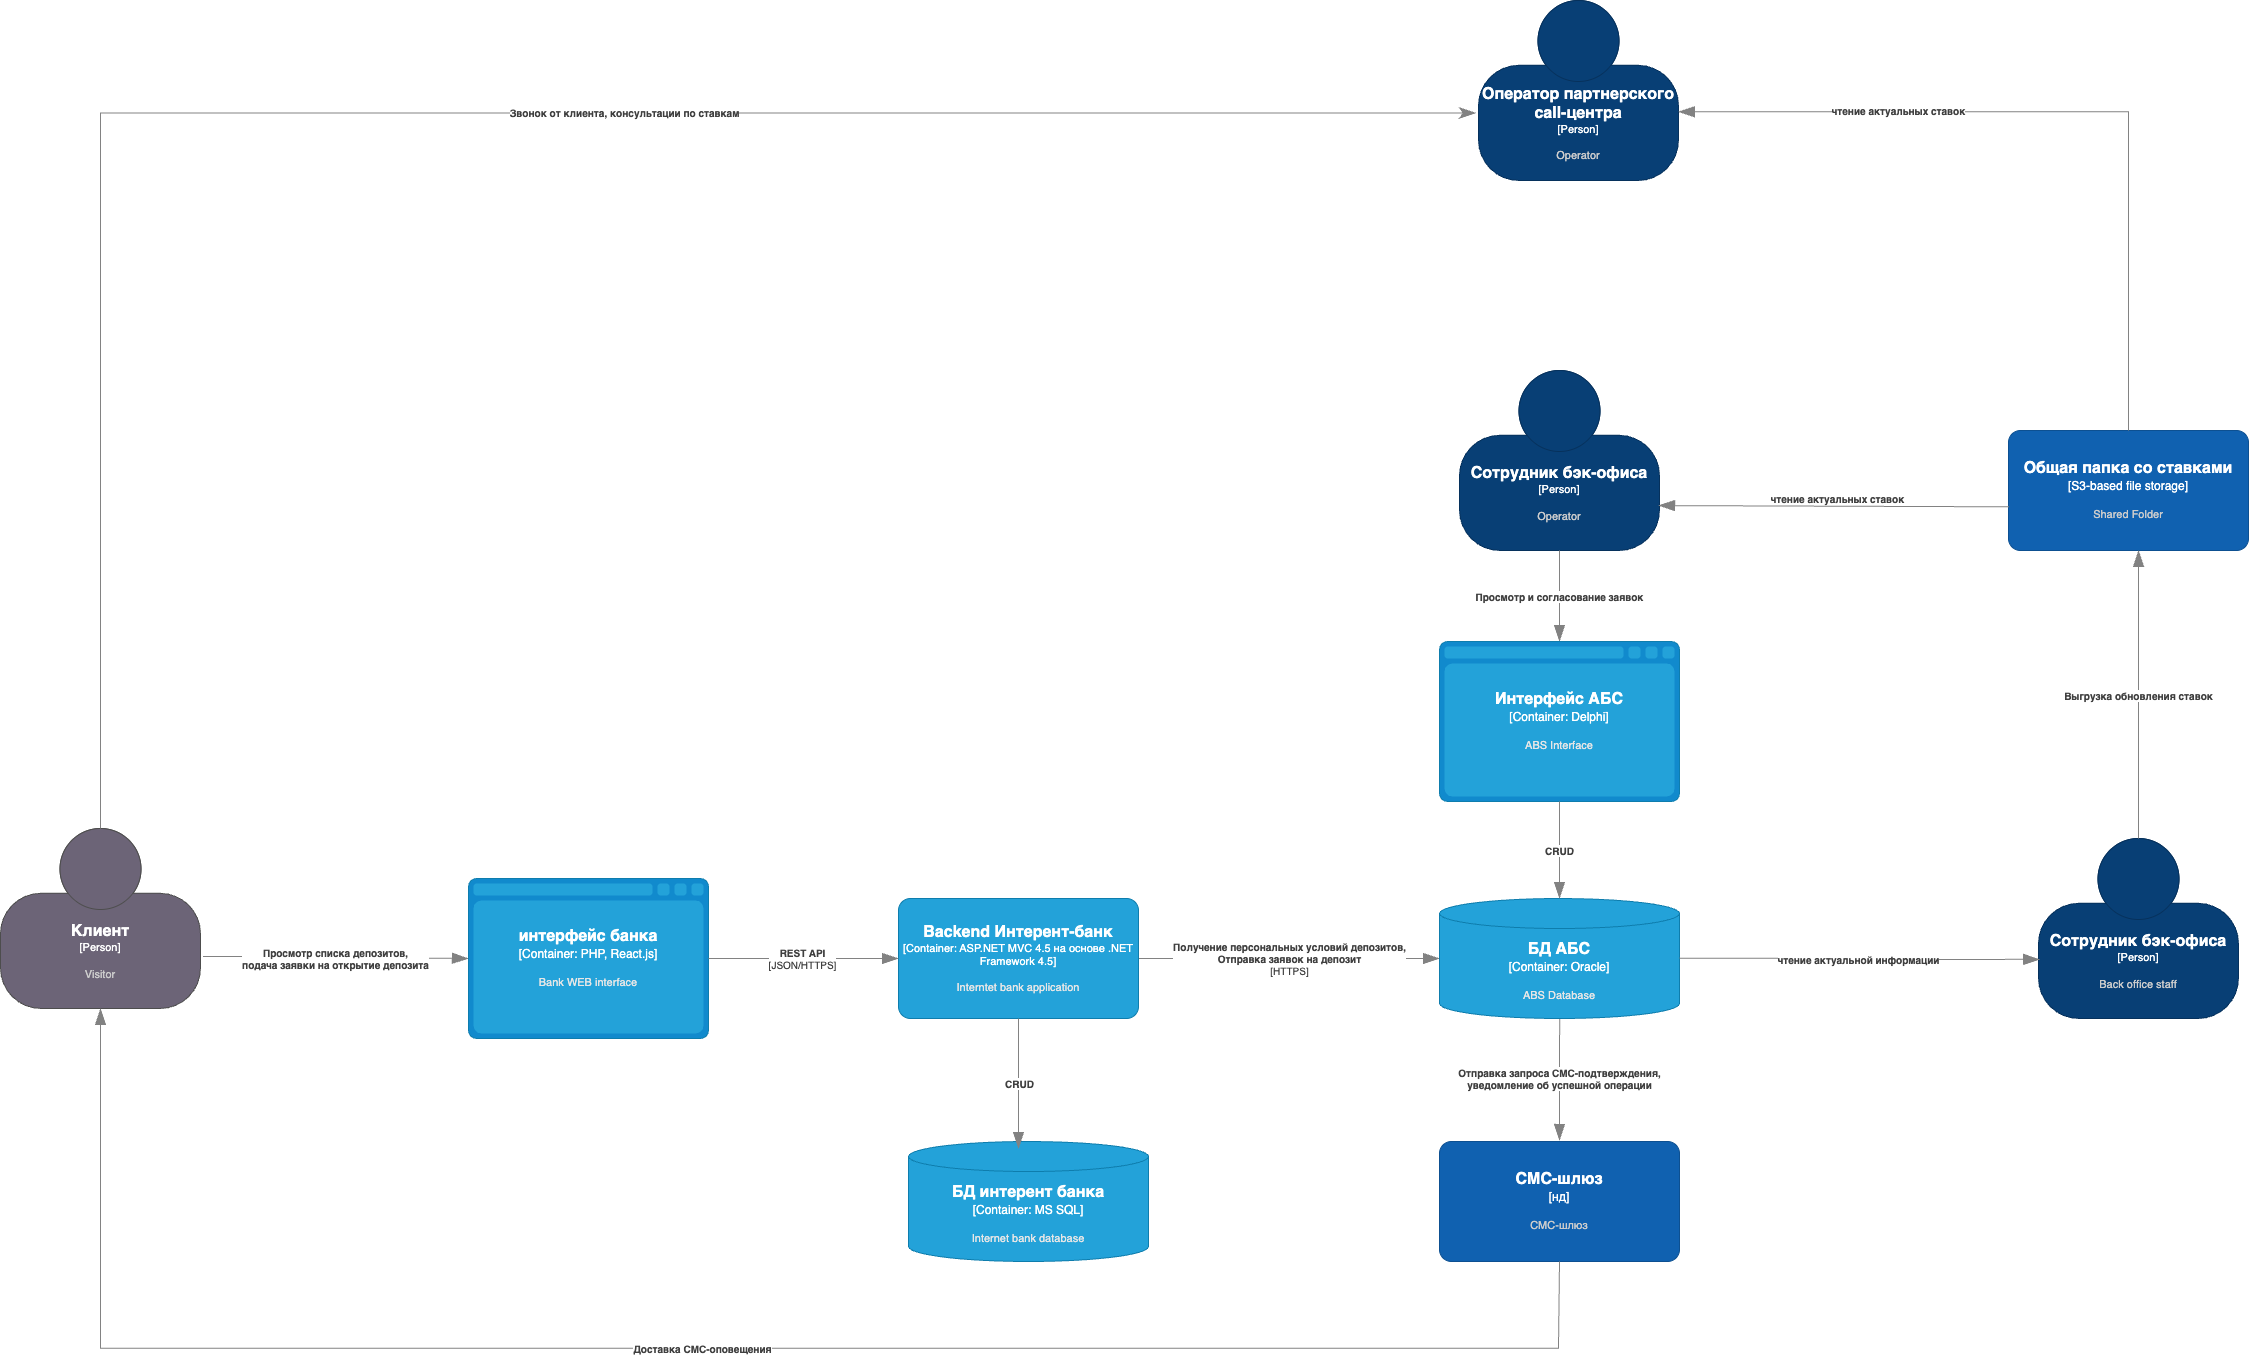
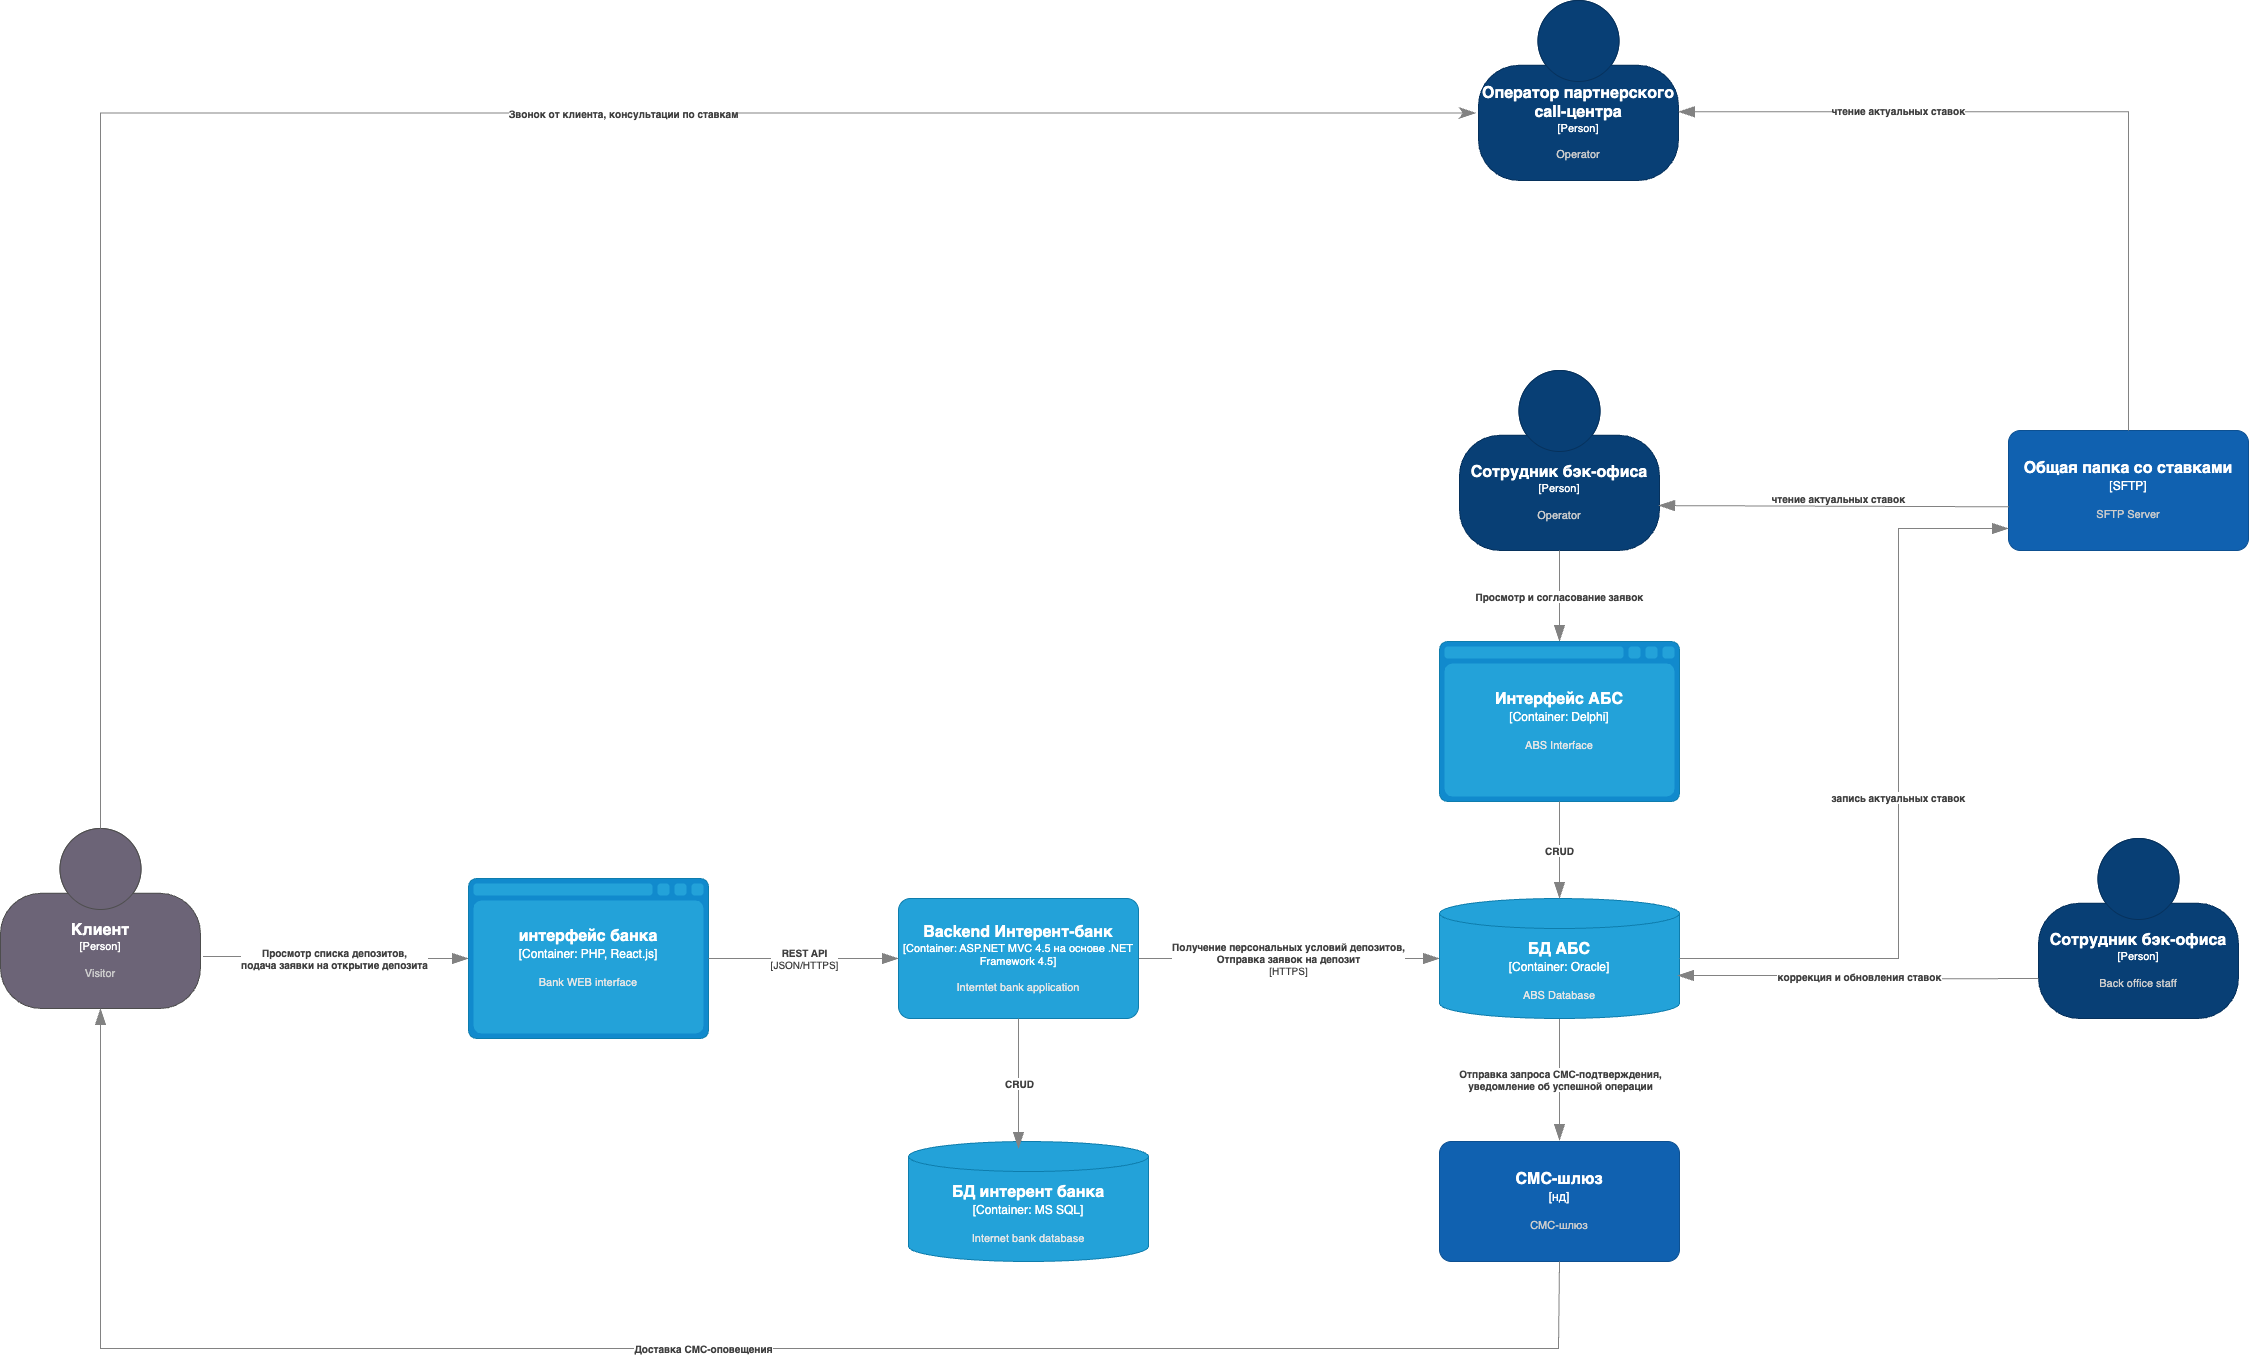
fix: review comments handle

diff --git a/Exc3/ADR.md b/Exc3/ADR.md
@@ -11,6 +11,8 @@
 |UC3| Пользователь, сайт, система кол-центра, АБС| Клиент должен иметь возможность подать заявку на депозит, указав телефон и ФИО| <ol> <li> Пользователь выбирает депозит, указывает ФИО и телефон и оставляет заявку на депозит.</li><li> Сотрудник кол-центра перезванивает Пользователю, уточняет условия и оставляет заявку в системе кол-центра.</li><li> Система кол-центра передает заявку на депозит в АБС</li> </ol>|
 |UC4| Пользователь, сотрудник бек-офиса, АБС, СМС-шлюз| Для клиента необходимо реализовать СМС-оповещение после согласованиия депозита и ставки | <ol> <li> Сотрудник бэк-офиса согласует заявки на депозиты в АБС.</li><li> АБС инициирует отправку СМС для пользователя о согласовании депозита.</li><li> Пользователь после получения СМС приходит в офис для открытия депозита</li> </ol>|
 |UC5| Клиент, интернет-банк, АБС, СМС-шлюз| Клиент может подать заявку на открытие депозита, указав счет и сумму | <ol> <li> Клиент вибирает в интернет-банке персональное предложение об открытии депозита и отправляет заявку на открытие </li><li> АБС принимает заявку, инициирует отправку СМС для клиента о подтверждении операции.</li><li> СМС-шлюз доставлет сообщение с кодом подтверждения операции</li><li> Клиент вводит код подтвержения через интернет-банк</li><li>Интернет-банк передает подтвержение на АБС</li><li>АБС открывает депозит и инициирует отправку СМС об успешной операции через СМС-шлюз</li><li>СМС-шлюз доставляет СМС об успешном открытии депозита</li> </ol>|
+|UC6| система кол-центра, сотрудник кол-центра (менеджер), пользователь| менеджер обрабатывает заявку на депозит | <ol> <li> Менеджер разбирает входящие заявки на депозиты от клиентов </li><li> При изучении заявки может согласовать особые условия.</li><li> Менеджер звонит клиенту (пользователю) для согласования деталей открытия депозита</li>|
+
 
 ### <a name="_u8xz25hbrgql"></a>**Нефункциональные требования**
 Опишите здесь нефункциональные требования и архитектурно-значимые требования.

diff --git a/Exc2/FURPS.md b/Exc2/FURPS.md
@@ -8,6 +8,7 @@
 | F5  | Клиент может подать заявку на открытие депозита, указав счет и сумму                                |  пп2            |
 | F6  | Функционал согласования ставок необходимо перевести в АБС                                |  пп2            |
 | F7  | Для клиента необходимо реализовать СМС-оповещение после согласованиия депозита и ставки                                |  пп4            |
+| F8  | Сотрудник отделения может подать заявку напрямую в АБС, если клиент сразу придет в отделение, чтобы открыть депозит                                |  пп1            |
 | U   | **Удобство использования (Usability)** |              |
 | U1  | Интерфейс работы должен быть максимально удобным для клиента                                |  пп5            |
 | U2  | Нужно придерживаться системы дизайна для приложений, которая принята в компании. Пользователи при работе должны видеть привычные цвета и брендированные элементы                                |  пп5            |
@@ -31,3 +32,4 @@
 | R4  | Для очередей сообщений необходимо использовать Kafka                               |  пп3            |
 | R5  | Лучше избежать прямой работы интернет-банка с API АБС в новом процессе                               |  пп6            |
 | R6  | АБС может масштабироваться только вертикально из-за своей базы данных                               |  пп6            |
+| R6  | Использовать платформы и субд Java, .NET, PHP, MS SQL, Oracle                                |  пп3            |
